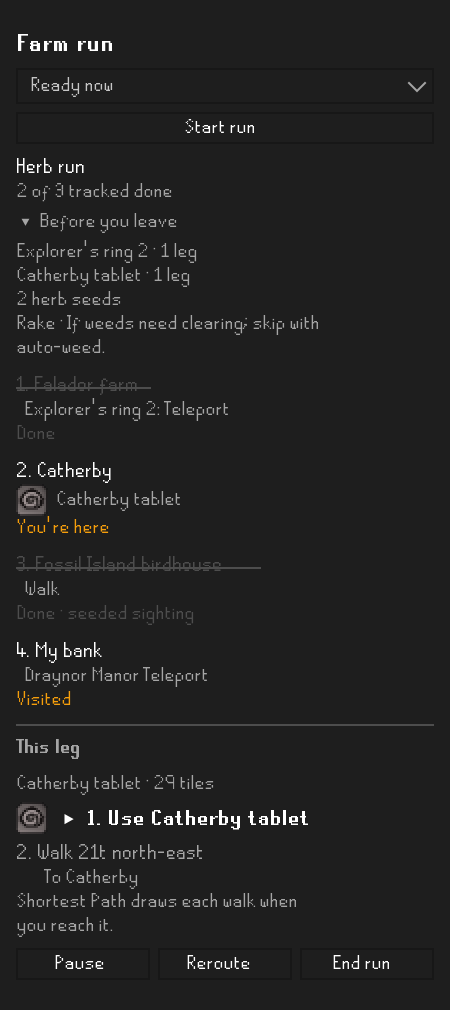
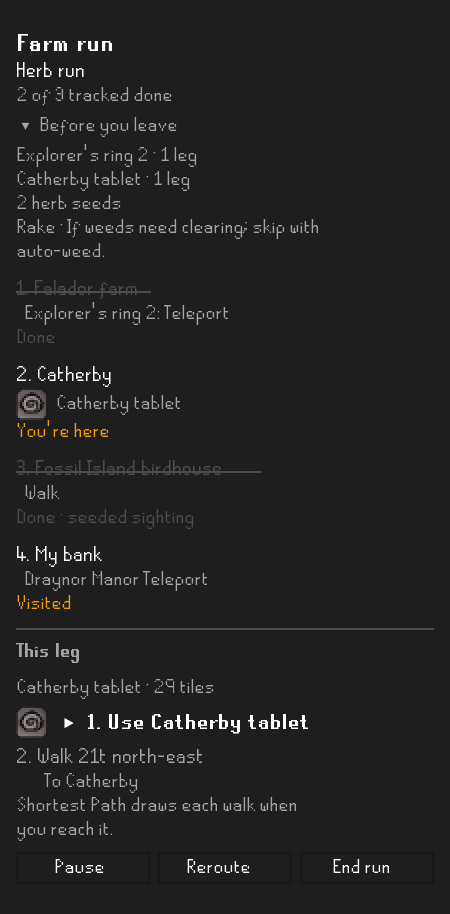
Keep the farm run's picker out of the way of a run being walked
The farm run card kept its kind of run and Start run above a run in
progress, and there is one run at a time, so one press replaced the run
being walked. The Port tasks card already held the rule that a run already
held is the order, with no second Start beside it. The farm card follows it
now: the picker hides while a run is shown, being planned or being ended, and
comes back when the card has no run. The README's farm picture shows it.

diff --git a/src/main/java/com/pbolduc/mapcompanion/RunView.java b/src/main/java/com/pbolduc/mapcompanion/RunView.java
@@ -85,6 +85,8 @@ final class RunView extends JPanel
 	private final JButton end = MapCompanionPanel.smallButton("End run");
 	private final JPanel actions = new JPanel(new GridLayout(1, 0, 4, 0));
 	private List<JButton> shownActions = Collections.emptyList();
+	/** A run shown, or one being planned or ended: the card's own Start would replace it. EDT. */
+	private boolean busy;
 	/*
 	 * A hairline and its own heading over the steps of the leg being walked. Without them the leg's
 	 * Walk, Board, Sail and Dock read as more stops at the bottom of the list. Shown with the steps.
@@ -157,6 +159,12 @@ final class RunView extends JPanel
 		return port == FarmRunWire.PORT_TASKS.equals(run.kind);
 	}
 
+	/** Whether this card holds a run, or one being planned or ended, as of its last refresh. EDT. */
+	boolean busy()
+	{
+		return busy;
+	}
+
 	/** The button a hotkey presses here: Reroute, or Follow and Pause, while this card shows a run. EDT. */
 	@Nullable
 	JButton hotkey(boolean rerouting)
@@ -195,6 +203,7 @@ final class RunView extends JPanel
 		changed.setVisible(active && view.changed);
 		before.setVisible(active && !view.run.bring.isEmpty());
 		actions.setVisible(active || planning || ending);
+		busy = active || planning || ending;
 		if (active)
 		{
 			boolean newRun = !Objects.equals(shownRun, view.run.id);

diff --git a/src/main/java/com/pbolduc/mapcompanion/FarmRunPanel.java b/src/main/java/com/pbolduc/mapcompanion/FarmRunPanel.java
@@ -60,6 +60,12 @@ final class FarmRunPanel extends JPanel
 	private final JComboBox<String> kind = new JComboBox<>();
 	/* A button under the picker, the picker's width: it acts, and a link is a fold's own opener. */
 	private final JButton start = MapCompanionPanel.smallButton("Start run");
+	/*
+	 * The kind of run and Start run, hidden while a run is going or being planned: there is one run at
+	 * a time, so a press here would replace the run being walked. The Port tasks card holds the same
+	 * rule; the picker comes back when the run ends.
+	 */
+	private final JPanel picker = new JPanel(new BorderLayout(0, 4));
 	private final RunView run;
 
 	@Inject
@@ -79,7 +85,6 @@ final class FarmRunPanel extends JPanel
 		heading.setForeground(Color.WHITE);
 		heading.setFont(heading.getFont().deriveFont(Font.BOLD, 13f));
 		add(MapCompanionPanel.left(heading));
-		JPanel picker = new JPanel(new BorderLayout(0, 4));
 		picker.setBackground(getBackground());
 		for (String[] choice : STARTS)
 		{
@@ -108,6 +113,7 @@ final class FarmRunPanel extends JPanel
 	{
 		boolean showing = run.refresh(connected);
 		setVisible(connected || showing);
+		picker.setVisible(!run.busy());
 		boolean ready = connected && client.ready();
 		start.setEnabled(ready);
 		kind.setEnabled(ready);

diff --git a/docs/sidebar-layout.md b/docs/sidebar-layout.md
@@ -601,6 +601,13 @@ and the press sends the clue as the snapshot carries it; the card takes the name
 map reads from the words, and an emote's way goes by its STASH unit first. A step with a tile still
 goes as that tile, so the words leave only when they are what the map needs.
 
+### The farm run's picker steps aside
+
+The farm run card kept its kind of run and *Start run* above a run being walked, and there is one run
+at a time, so one press replaced it. The Port tasks card already held the rule "a run already held is
+the order: no second Start beside it". The farm card follows it now: the picker hides while a run is
+shown, planned or ended, and comes back when the card has no run.
+
 ### Outside the sidebar
 
 *Route here* on a right-click of the game's world map, the step being walked in a small box over

diff --git a/docs/live-checks.md b/docs/live-checks.md
@@ -313,6 +313,8 @@ continuously witnessed empty-to-newly-planted transition mints a stable completi
 - [ ] Open the bank during a herb run that names an Amulet of glory you are not carrying: charged
       glories are outlined and an emptied one is not; withdraw one and the outlines go within a
       tick. Seeds and a tablet no travel flag names are never outlined, and nothing moves or hides.
+- [ ] Start a herb run: the kind of run and Start run leave the card while it is planned and walked,
+      and come back after End run or once the run is gone.
 - [ ] Reach a personal stop. It says Visited, never Done. Reroute keeps completed and visited
       stops at their original numbers and orders only the rest.
 - [ ] Pause, then replant. The list can record it without reclaiming a Shortest Path route

diff --git a/README.md b/README.md
@@ -55,7 +55,8 @@ Results use the game's map icons and item sprites.
 </p>
 
 Build a run on the website and press **Send run to RuneLite**, or choose a preset, **Ready now**,
-**Birdhouses** or your **Farming contract** under **Farm run** on Home and press **Start run**.
+**Birdhouses** or your **Farming contract** under **Farm run** on Home and press **Start run**;
+the choice steps aside while the run is going, so a stray press cannot replace it.
 The sidebar lists your stops, how to reach each one, and **Before you leave**, a bank checklist.
 In the bank, the checklist's teleports you are not carrying are outlined. Numbered pins mark the
 stops on the game's world map.
